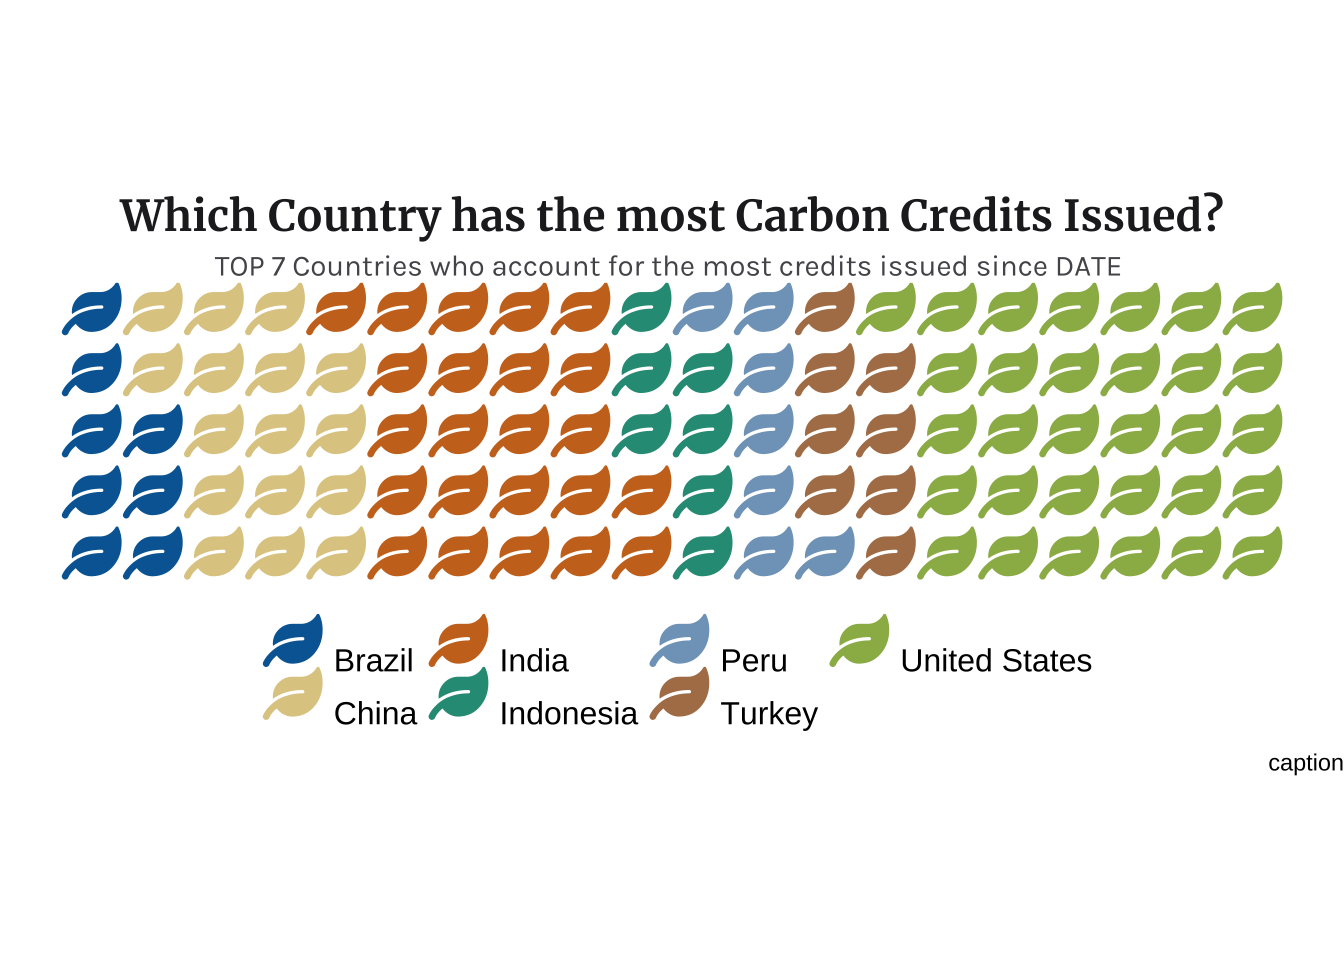
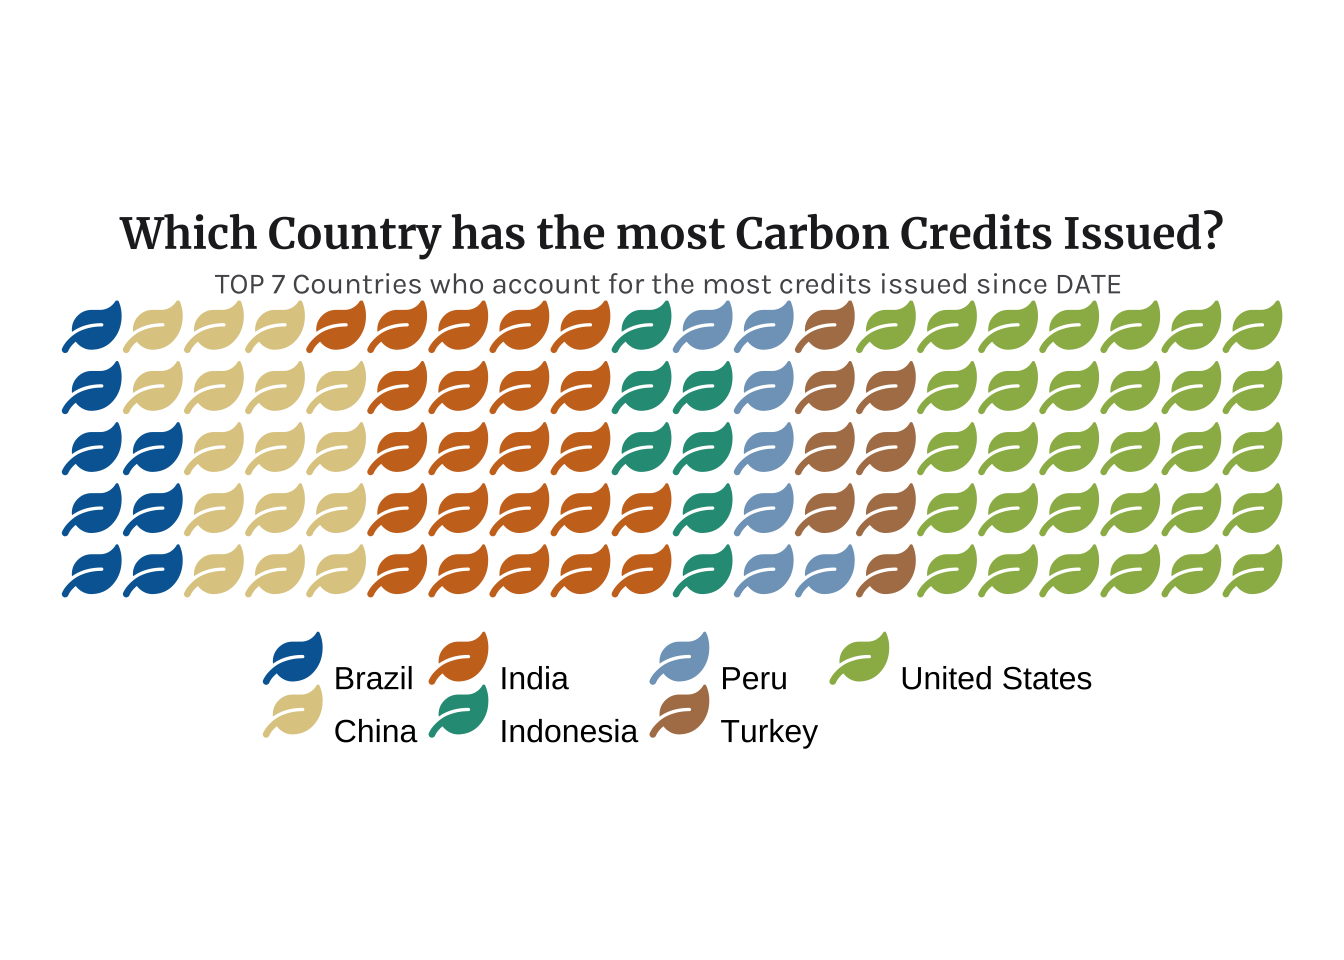
fixed typos

Changed region(s): [[0.0312, 0.1875, 0.9688, 0.7812], [0.9375, 0.7812, 1.0, 0.8125]]

diff --git a/docs/posts/2024-03-14-carbon-data-viz/index.html b/docs/posts/2024-03-14-carbon-data-viz/index.html
@@ -393,10 +393,9 @@ pre > code.sourceCode > span > a:first-child::before { text-decoration: underlin
 <span id="cb4-42"><a href="#cb4-42" aria-hidden="true" tabindex="-1"></a>    <span class="at">axis.text.x =</span> <span class="fu">element_text</span>(<span class="at">angle =</span> <span class="dv">45</span>, <span class="at">hjust =</span> <span class="dv">1</span>), <span class="co"># Adjust angle and font family here</span></span>
 <span id="cb4-43"><a href="#cb4-43" aria-hidden="true" tabindex="-1"></a>    <span class="at">legend.position =</span> <span class="st">"none"</span>, </span>
 <span id="cb4-44"><a href="#cb4-44" aria-hidden="true" tabindex="-1"></a>    <span class="at">plot.subtitle =</span> <span class="fu">element_text</span>(<span class="at">size =</span> <span class="dv">11</span>, <span class="at">face =</span> <span class="st">"plain"</span>, <span class="at">color =</span> <span class="st">"#555459"</span>, <span class="at">family =</span> <span class="st">"karla"</span>),</span>
-<span id="cb4-45"><a href="#cb4-45" aria-hidden="true" tabindex="-1"></a>    <span class="at">plot.caption =</span> <span class="fu">element_text</span>(<span class="at">face =</span> <span class="st">"italic"</span>),</span>
-<span id="cb4-46"><a href="#cb4-46" aria-hidden="true" tabindex="-1"></a>    <span class="at">axis.title.x =</span> <span class="fu">element_text</span>(<span class="at">color =</span> <span class="st">"#232226"</span>, <span class="at">size =</span> <span class="dv">10</span>, <span class="at">angle =</span> <span class="dv">0</span>, <span class="at">hjust =</span> .<span class="dv">5</span>, <span class="at">vjust =</span> <span class="dv">0</span>, <span class="at">face =</span> <span class="st">"bold"</span>),</span>
-<span id="cb4-47"><a href="#cb4-47" aria-hidden="true" tabindex="-1"></a>    <span class="at">axis.title.y =</span> <span class="fu">element_text</span>(<span class="at">color =</span> <span class="st">"#232226"</span>, <span class="at">size =</span> <span class="dv">10</span>, <span class="at">angle =</span> <span class="dv">90</span>, <span class="at">hjust =</span> .<span class="dv">5</span>, <span class="at">vjust =</span> .<span class="dv">5</span>, <span class="at">face =</span> <span class="st">"bold"</span>),</span>
-<span id="cb4-48"><a href="#cb4-48" aria-hidden="true" tabindex="-1"></a>    <span class="at">aspect.ratio=</span><span class="dv">3</span><span class="sc">/</span><span class="dv">10</span>)</span></code><button title="Copy to Clipboard" class="code-copy-button"><i class="bi"></i></button></pre></div>
+<span id="cb4-45"><a href="#cb4-45" aria-hidden="true" tabindex="-1"></a>    <span class="at">axis.title.x =</span> <span class="fu">element_text</span>(<span class="at">color =</span> <span class="st">"#232226"</span>, <span class="at">size =</span> <span class="dv">10</span>, <span class="at">angle =</span> <span class="dv">0</span>, <span class="at">hjust =</span> .<span class="dv">5</span>, <span class="at">vjust =</span> <span class="dv">0</span>, <span class="at">face =</span> <span class="st">"bold"</span>),</span>
+<span id="cb4-46"><a href="#cb4-46" aria-hidden="true" tabindex="-1"></a>    <span class="at">axis.title.y =</span> <span class="fu">element_text</span>(<span class="at">color =</span> <span class="st">"#232226"</span>, <span class="at">size =</span> <span class="dv">10</span>, <span class="at">angle =</span> <span class="dv">90</span>, <span class="at">hjust =</span> .<span class="dv">5</span>, <span class="at">vjust =</span> .<span class="dv">5</span>, <span class="at">face =</span> <span class="st">"bold"</span>),</span>
+<span id="cb4-47"><a href="#cb4-47" aria-hidden="true" tabindex="-1"></a>    <span class="at">aspect.ratio=</span><span class="dv">3</span><span class="sc">/</span><span class="dv">10</span>)</span></code><button title="Copy to Clipboard" class="code-copy-button"><i class="bi"></i></button></pre></div>
 </details>
 <div class="cell-output-display">
 <p><img src="index_files/figure-html/unnamed-chunk-2-1.png" class="img-fluid" width="672"></p>
@@ -438,11 +437,10 @@ pre > code.sourceCode > span > a:first-child::before { text-decoration: underlin
 <span id="cb5-27"><a href="#cb5-27" aria-hidden="true" tabindex="-1"></a>        <span class="at">axis.text.y =</span> <span class="fu">element_text</span>(<span class="at">color =</span> <span class="st">"black"</span>),</span>
 <span id="cb5-28"><a href="#cb5-28" aria-hidden="true" tabindex="-1"></a>        <span class="at">legend.position =</span> <span class="st">"none"</span>, </span>
 <span id="cb5-29"><a href="#cb5-29" aria-hidden="true" tabindex="-1"></a>        <span class="at">plot.subtitle =</span> <span class="fu">element_text</span>(<span class="at">size =</span> <span class="dv">11</span>, <span class="at">face =</span> <span class="st">"plain"</span>, <span class="at">color =</span> <span class="st">"#555459"</span>, <span class="at">family =</span> <span class="st">"karla"</span>, <span class="at">hjust =</span> <span class="fl">0.5</span>),</span>
-<span id="cb5-30"><a href="#cb5-30" aria-hidden="true" tabindex="-1"></a>        <span class="at">plot.caption =</span> <span class="fu">element_text</span>(<span class="at">face =</span> <span class="st">"italic"</span>),</span>
-<span id="cb5-31"><a href="#cb5-31" aria-hidden="true" tabindex="-1"></a>        <span class="at">axis.title.x =</span> <span class="fu">element_text</span>(<span class="at">color =</span> <span class="st">"black"</span>, <span class="at">size =</span> <span class="dv">10</span>, <span class="at">angle =</span> <span class="dv">0</span>, <span class="at">hjust =</span> .<span class="dv">5</span>, <span class="at">vjust =</span> <span class="dv">0</span>, <span class="at">face =</span> <span class="st">"bold"</span>),</span>
-<span id="cb5-32"><a href="#cb5-32" aria-hidden="true" tabindex="-1"></a>        <span class="at">axis.title.y =</span> <span class="fu">element_text</span>(<span class="at">color =</span> <span class="st">"black"</span>, <span class="at">size =</span> <span class="dv">10</span>, <span class="at">angle =</span> <span class="dv">90</span>, <span class="at">hjust =</span> .<span class="dv">5</span>, <span class="at">vjust =</span> .<span class="dv">5</span>, <span class="at">face =</span> <span class="st">"bold"</span>))</span>
-<span id="cb5-33"><a href="#cb5-33" aria-hidden="true" tabindex="-1"></a></span>
-<span id="cb5-34"><a href="#cb5-34" aria-hidden="true" tabindex="-1"></a>scopes_plot</span></code><button title="Copy to Clipboard" class="code-copy-button"><i class="bi"></i></button></pre></div>
+<span id="cb5-30"><a href="#cb5-30" aria-hidden="true" tabindex="-1"></a>        <span class="at">axis.title.x =</span> <span class="fu">element_text</span>(<span class="at">color =</span> <span class="st">"black"</span>, <span class="at">size =</span> <span class="dv">10</span>, <span class="at">angle =</span> <span class="dv">0</span>, <span class="at">hjust =</span> .<span class="dv">5</span>, <span class="at">vjust =</span> <span class="dv">0</span>, <span class="at">face =</span> <span class="st">"bold"</span>),</span>
+<span id="cb5-31"><a href="#cb5-31" aria-hidden="true" tabindex="-1"></a>        <span class="at">axis.title.y =</span> <span class="fu">element_text</span>(<span class="at">color =</span> <span class="st">"black"</span>, <span class="at">size =</span> <span class="dv">10</span>, <span class="at">angle =</span> <span class="dv">90</span>, <span class="at">hjust =</span> .<span class="dv">5</span>, <span class="at">vjust =</span> .<span class="dv">5</span>, <span class="at">face =</span> <span class="st">"bold"</span>))</span>
+<span id="cb5-32"><a href="#cb5-32" aria-hidden="true" tabindex="-1"></a></span>
+<span id="cb5-33"><a href="#cb5-33" aria-hidden="true" tabindex="-1"></a>scopes_plot</span></code><button title="Copy to Clipboard" class="code-copy-button"><i class="bi"></i></button></pre></div>
 </details>
 <div class="cell-output-display">
 <p><img src="index_files/figure-html/unnamed-chunk-3-1.png" class="img-fluid" width="672"></p>
@@ -489,7 +487,7 @@ pre > code.sourceCode > span > a:first-child::before { text-decoration: underlin
 <span id="cb7-27"><a href="#cb7-27" aria-hidden="true" tabindex="-1"></a>  <span class="co"># paletteer::scale_fill_paletteer_d("rcartocolor::Earth") +</span></span>
 <span id="cb7-28"><a href="#cb7-28" aria-hidden="true" tabindex="-1"></a>  <span class="fu">labs</span>(<span class="at">title =</span> <span class="st">"Which Country has the most Carbon Credits Issued?"</span>,</span>
 <span id="cb7-29"><a href="#cb7-29" aria-hidden="true" tabindex="-1"></a>       <span class="at">subtitle =</span> <span class="st">"TOP 7 Countries who account for the most credits issued since DATE "</span>,</span>
-<span id="cb7-30"><a href="#cb7-30" aria-hidden="true" tabindex="-1"></a>       <span class="at">caption =</span> <span class="st">"caption"</span>) <span class="sc">+</span></span>
+<span id="cb7-30"><a href="#cb7-30" aria-hidden="true" tabindex="-1"></a>       ) <span class="sc">+</span></span>
 <span id="cb7-31"><a href="#cb7-31" aria-hidden="true" tabindex="-1"></a>  <span class="fu">scale_color_manual</span>(</span>
 <span id="cb7-32"><a href="#cb7-32" aria-hidden="true" tabindex="-1"></a>    <span class="at">name =</span> <span class="cn">NULL</span>, </span>
 <span id="cb7-33"><a href="#cb7-33" aria-hidden="true" tabindex="-1"></a>    <span class="at">values =</span> <span class="fu">c</span>(<span class="st">"#0067A2"</span>, <span class="st">"#DFCB91"</span>, <span class="st">"#CB7223"</span>, <span class="st">"#289A84"</span>, <span class="st">"#7FA4C2"</span>, <span class="st">"#AF7E56"</span>, <span class="st">"#9BB655FF"</span>),</span>
@@ -513,7 +511,7 @@ pre > code.sourceCode > span > a:first-child::before { text-decoration: underlin
 </div>
 <section id="infographic" class="level2">
 <h2 class="anchored" data-anchor-id="infographic">Infographic</h2>
-<p><img src="../../images/How are Carbon Credits Distributed?-2.jpg" class="img-fluid"></p>
+<p><img src="How are Carbon Credits Distributed?-2.jpg" class="img-fluid"></p>
 <p>Please look at a better Resolution Photo on my Github Repo : <a href="https://github.com/Vanessa-Salgado/Vanessa-Salgado.github.io/blob/main/images/How%20are%20Carbon%20Credits%20Distributed%3F-2.pdf">How are Carbon Credits Distributed Infographic</a></p>
 
 

diff --git a/docs/posts.html b/docs/posts.html
@@ -166,7 +166,7 @@ ul.task-list li input[type="checkbox"] {
 
 <div class="quarto-listing quarto-listing-container-grid" id="listing-listing">
 <div class="list grid quarto-listing-cols-3">
-<div class="g-col-1" data-index="0" data-listing-date-sort="1710140400000" data-listing-file-modified-sort="1710521491929" data-listing-date-modified-sort="NaN" data-listing-reading-time-sort="13">
+<div class="g-col-1" data-index="0" data-listing-date-sort="1710140400000" data-listing-file-modified-sort="1710521843223" data-listing-date-modified-sort="NaN" data-listing-reading-time-sort="12">
 <a href="./posts/2024-03-14-carbon-data-viz/index.html" class="quarto-grid-link">
 <div class="quarto-grid-item card h-100 card-left">
 <p class="card-img-top"><img src="posts/2024-03-14-carbon-data-viz/index_files/figure-html/unnamed-chunk-2-1.png" style="height: 150px;"  class="thumbnail-image card-img"/></p>
